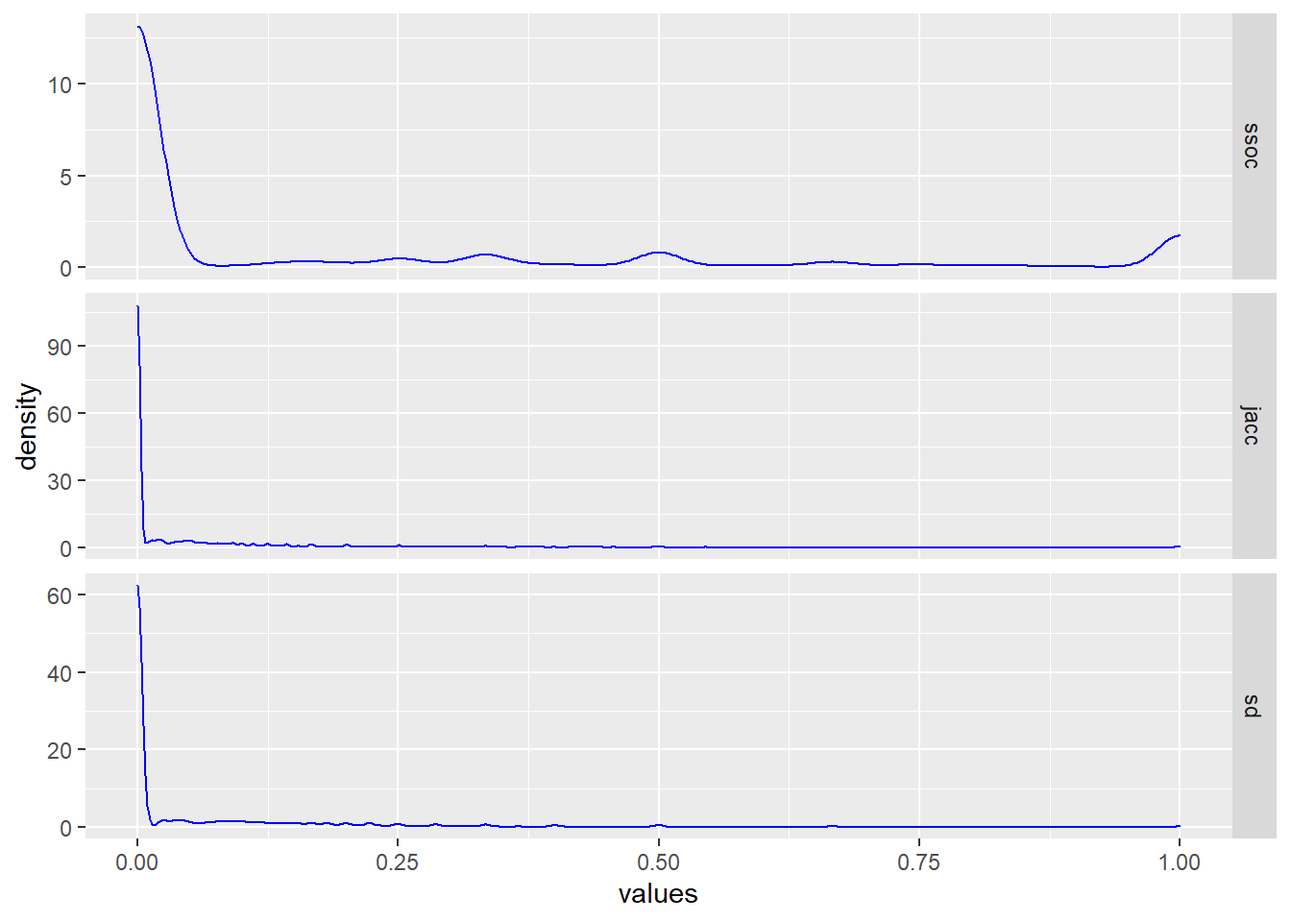
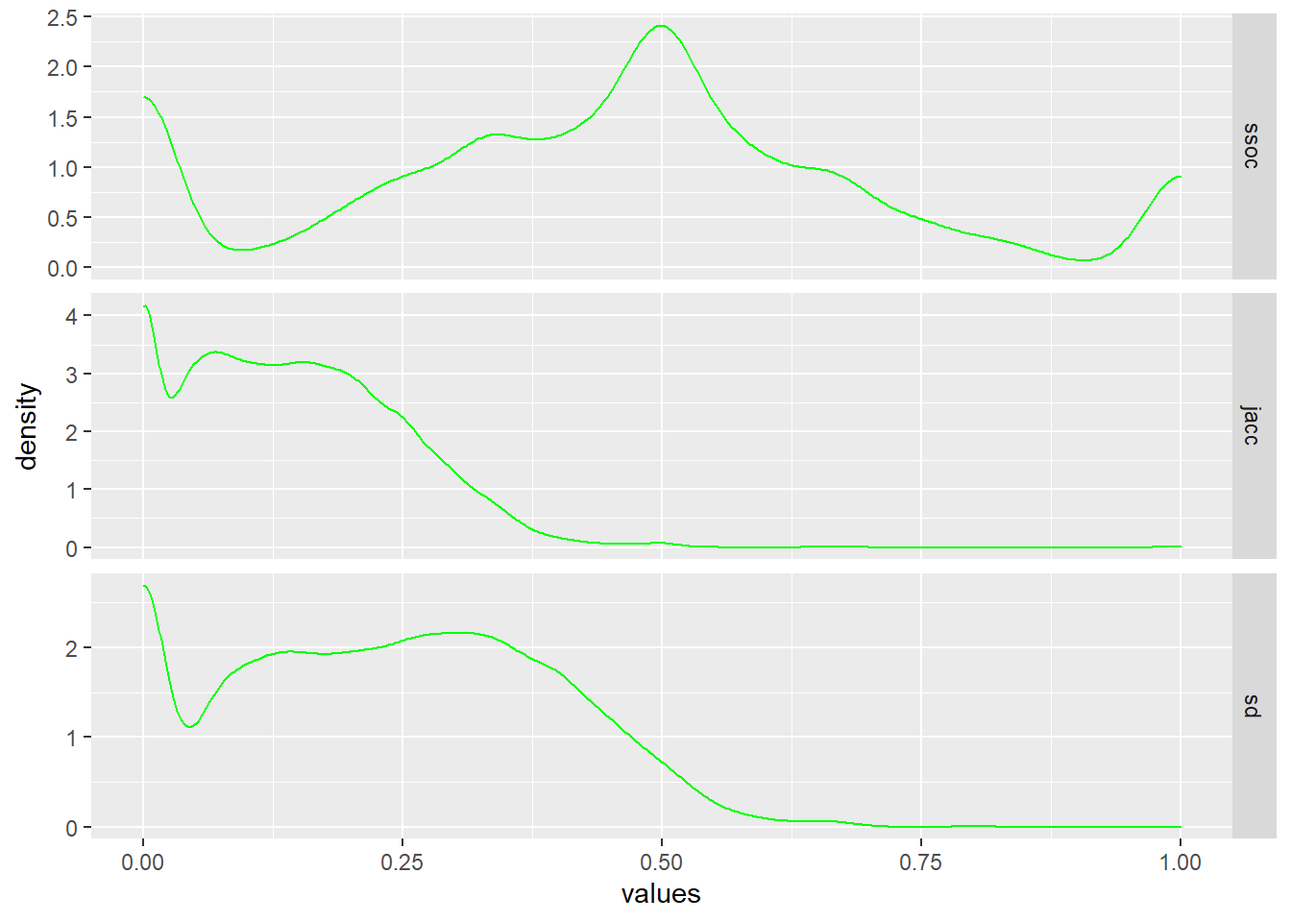
Finished comparing metrics, on to wrap up

diff --git a/docs/assemblage_network/assemblage_network_doc_2_similarity.html b/docs/assemblage_network/assemblage_network_doc_2_similarity.html
@@ -250,11 +250,11 @@ Overlap(A, B) = \frac{|A \cap B |}{\min ({|A|,|B|})}
 \]</span></p>
 <p>For example, say we have two sets: <span class="math inline">\(X=\{a, b, c\}\)</span> and <span class="math inline">\(Y = \{b, c, d, e, f\}\)</span>. Their intersection is <span class="math inline">\(X \cap Y = \{b, c\}\)</span> and the sets have cardinality <span class="math inline">\(|X|=3\)</span> and <span class="math inline">\(|Y| = 5\)</span>. Their overlap coefficient would be:</p>
 <p><span class="math display">\[
-\begin{align}
+\begin{aligned}
 Overlap(X, Y) &amp;= \frac{|\{b, c\}|}{\min(|\{a, b, c\}|, |\{b, c, d, e, f\}|)}\\
 &amp;= \frac{2}{\min (3, 5)} \\
 &amp;= \frac{2}{3} \approx 0.67
-\end{align}
+\end{aligned}
 \]</span></p>
 <p>Easy, right? It’s just the proportion of the smaller set’s members that are also members of the larger set (thus, <em>overlap</em>).</p>
 <p>Notice, though, that if <em>all</em> of the elements of the smaller set were in the larger set – i.e., if we were to drop element <span class="math inline">\(a\)</span> from set <span class="math inline">\(X\)</span> so that it was a complete <em>subset</em> of <span class="math inline">\(Y\)</span> – then the coefficient would equal <span class="math inline">\(1\)</span> regardless of how many additional members were in <span class="math inline">\(Y\)</span>.</p>
@@ -298,19 +298,19 @@ J(A, B) = \frac{|A \cap B|}{|A \cup B|} = \frac{|A \cap B|}{|A| + |B| - |A \cap 
 <p>Unlike the overlap coefficient, you can see that the Jaccard index considers the <em>total</em> membership of both sets being compared in the denominator. That means that this index will <em>always</em> penalize differences between sets, even if one is a proper subset of the other.</p>
 <p>To demonstrate, let’s go back to our toy example sets <span class="math inline">\(X=\{a, b, c\}\)</span> and <span class="math inline">\(Y = \{b, c, d, e, f\}\)</span> to calculate the Jaccard index value.</p>
 <p><span class="math display">\[
-\begin{align}
+\begin{aligned}
 J(X, Y) &amp;= \frac{|\{b, c\}|}{|\{a, b, c\}| + |\{b, c, d, e, f\}| - |\{b, c\}|}\\
 &amp;= \frac{2}{3 + 5 - 2} \\
 &amp;= \frac{2}{6} \approx 0.33
-\end{align}
+\end{aligned}
 \]</span></p>
 <p>By considering the total cardinality of the sets, the Jaccard index comes back a fair bit <em>lower</em> than the Overlap Coefficient (<span class="math inline">\(\approx 0.67\)</span>). Next, let’s go ahead and drop element <span class="math inline">\(a\)</span> to make <span class="math inline">\(X\)</span> a proper subset of <span class="math inline">\(Y\)</span> and see what happens. Whereas the Overlap Coefficient was <span class="math inline">\(1\)</span>, we find that</p>
 <p><span class="math display">\[
-\begin{align}
+\begin{aligned}
 J(X, Y) &amp;= \frac{|\{b, c\}|}{|\{b, c\}| + |\{b, c, d, e, f\}| - |\{b, c\}|}\\
 &amp;= \frac{2}{2 + 5 - 2} \\
 &amp;= \frac{2}{5} = 0.4
-\end{align}
+\end{aligned}
 \]</span></p>
 <p>That’s a significant difference! Even though <span class="math inline">\(X\)</span> is a proper subset of <span class="math inline">\(Y\)</span>, the Jaccard index emphasizes the <em>differences</em> between the sets over their commonalities. The greater the disparity between sets, the lower the index value. Again, depending on your use case, that extra penalization of difference may be to your advantage.</p>
 <p>The Jaccard similarity index is perhaps, as already mentioned, the most common and versatile of the set similarity measures. It’s often used for comparing categorical data, and frequently found in ecological or social science applications.</p>
@@ -352,19 +352,19 @@ DSC(A, B) = \frac{2 \times |A \cap B|}{|A| + |B|}
 \]</span></p>
 <p>Let’s see how Sørensen–Dice similarity compares with our toy example <span class="math inline">\(X=\{a, b, c\}\)</span> and <span class="math inline">\(Y = \{b, c, d, e, f\}\)</span> again.</p>
 <p><span class="math display">\[
-\begin{align}
+\begin{aligned}
 DSC(X, Y) &amp;= \frac{2 \times |\{b, c\}|}{|\{a, b, c\}| + |\{b, c, d, e, f\}|}\\
 &amp;= \frac{2 \times 2}{3 + 5} \\
 &amp;= \frac{4}{8} = 0.5
-\end{align}
+\end{aligned}
 \]</span></p>
 <p>As expected, our calculated similarity <span class="math inline">\(DSC = 0.5\)</span> is somewhat higher than Jaccard but lower than the Overlap Coefficient. What happens now if we make <span class="math inline">\(X\)</span> a proper subset of <span class="math inline">\(Y\)</span> again (<em>i.e.</em>, drop element <span class="math inline">\(a\)</span>)?</p>
 <p><span class="math display">\[
-\begin{align}
+\begin{aligned}
 DSC(X, Y) &amp;= \frac{2 \times |\{b, c\}|}{|\{b, c\}| + |\{b, c, d, e, f\}|}\\
 &amp;= \frac{2 \times 2}{2 + 5} \\
 &amp;= \frac{4}{7} \approx 0.57
-\end{align}
+\end{aligned}
 \]</span></p>
 <p>Like Jaccard, the Sørensen–Dice similarity coefficient does <em>not</em> equate a proper subset to identity but does calculate it as a stronger similarity than the Jaccard similarity index. The difference is that while Jaccard is the ratio of intersection to union, Sørensen–Dice is the ratio of the intersection to the <em>disjoint</em> union (<em>i.e.</em>, union minus intersection) of the two sets.</p>
 <p>Effectively, it’s the ratio of matches to mismatches rather than Jaccard’s ratio of matches to the overall membership. As before, this may be better suited depending on your particular application.</p>
@@ -447,14 +447,21 @@ Attaching package: 'gridExtra'</code></pre>
 </div>
 <p>On the left, we have the density distribution of how many artifact types tend to be found within a single provenience. On the right, we have the number of proveniences in which any single artifact type is found.</p>
 <p>One thing immediately jumps out – a substantial proportion of our proveniences contain a rather diverse collection of artifact types, but most of those individual types are found in very few proveniences. It’s also worth noting that it seems that some artifact types are showing up in a very high proportion of proveniences. Remember, our sample contains only 152 proveniences and 251 unique artifact types at our site.&nbsp;</p>
-<p>Both distributions are right-skewed, though, which is promising for our attempt to find hidden network structure. Why? Well, it means that all of those values on the right-hand tails aren’t especially likely to be particularly informative.</p>
+<p>Both distributions are right-skewed, though, which is promising for our attempt to find hidden network structure. Why? Well, it means that all of those values on the right-hand tails aren’t especially likely to be particularly informative. That skew is much more prominent in the artifact types. Provenience, on the other hand, is somewhat less skewed, which suggests less discrete spatial structure overall.</p>
 <p>An artifact type that shows up <em>everywhere</em> tells us very little about the associations between <em>other</em> artifact types, and next to nothing about the differences or similarities between proveniences. Similarly, proveniences that contain a little bit of everything don’t help us in finding spatial distinctions and are quite likely locations in which different assemblages may be mixed together.</p>
-<p>The inherent <em>structure</em> that we’re looking for isn’t likely to be found in those samples. Luckily, we now know that the <em>bulk</em> of the samples should (when projected as one-mode graphs) have a much smaller graph node <em>degree</em> than what we found in our “everything-to-everything” projections from before.&nbsp;</p>
+<p>Not to say they’re unimportant, and we can link them back in once we’ve found the primary structures for further analysis, but for now they are uninformative. The inherent <em>structure</em> that we’re looking for isn’t likely to be found in those samples. Luckily, we now know that the <em>bulk</em> of the samples should (when projected as one-mode graphs) have a much smaller graph node <em>degree</em> than what we found in our “everything-to-everything” projections from before.&nbsp;</p>
 </section>
 <section id="comparing-similarity-measures" class="level2">
 <h2 class="anchored" data-anchor-id="comparing-similarity-measures">Comparing Similarity Measures</h2>
-<section id="comparing-similarities-for-proveniences" class="level3">
-<h3 class="anchored" data-anchor-id="comparing-similarities-for-proveniences">Comparing similarities for proveniences</h3>
+<p>With our sample distributions in mind, we can turn to reasoning through a choice of similarity measures. From our three methods discussed above, the things we want to consider are:</p>
+<ul>
+<li><p>How likely and important are proper subsets to our objectives?</p></li>
+<li><p>How strongly do we want to weight the intersections of sets?</p></li>
+<li><p>How strongly do we want to penalize the differences?</p></li>
+</ul>
+<p>We also, of course, do want to consider just what our selected measures look like with our data sample and what implications that has for its graph structure. We’ll orient our incidence matrix <code>g_assemblages_bpg_inc</code> to capture the appropriate dimension (provenience or artifact type), and pass it to our similarity functions.</p>
+<p>Each of these represents a potential weighted adjacency matrix for our one-mode graph projections. For comparison purposes, we’ll pull out the lower triangle of each of these square matrices (excluding the self-to-self diagonal, which will be all ones).</p>
+<p>First, let’s take a look at our three similarity measures for the provenience dimension.</p>
 <div class="cell">
 <div class="sourceCode cell-code" id="cb13"><pre class="sourceCode r code-with-copy"><code class="sourceCode r"><span id="cb13-1"><a href="#cb13-1" aria-hidden="true" tabindex="-1"></a><span class="co"># Overlap coefficient, provenience</span></span>
 <span id="cb13-2"><a href="#cb13-2" aria-hidden="true" tabindex="-1"></a>prov_adj_ssoc <span class="ot">&lt;-</span> <span class="fu">overlap_coef_bin</span>(<span class="fu">t</span>(g_assemblages_bpg_inc))</span>
@@ -473,65 +480,84 @@ Attaching package: 'gridExtra'</code></pre>
 <span id="cb13-15"><a href="#cb13-15" aria-hidden="true" tabindex="-1"></a></span>
 <span id="cb13-16"><a href="#cb13-16" aria-hidden="true" tabindex="-1"></a>prov_sd_vals <span class="ot">&lt;-</span></span>
 <span id="cb13-17"><a href="#cb13-17" aria-hidden="true" tabindex="-1"></a>  prov_adj_sd[<span class="fu">lower.tri</span>(prov_adj_sd, <span class="at">diag =</span> <span class="cn">FALSE</span>)]</span>
-<span id="cb13-18"><a href="#cb13-18" aria-hidden="true" tabindex="-1"></a>  </span>
+<span id="cb13-18"><a href="#cb13-18" aria-hidden="true" tabindex="-1"></a></span>
 <span id="cb13-19"><a href="#cb13-19" aria-hidden="true" tabindex="-1"></a><span class="co"># Make data frame to compare</span></span>
 <span id="cb13-20"><a href="#cb13-20" aria-hidden="true" tabindex="-1"></a>prov_sims <span class="ot">&lt;-</span></span>
-<span id="cb13-21"><a href="#cb13-21" aria-hidden="true" tabindex="-1"></a>  <span class="fu">data.frame</span>(<span class="at">ssoc =</span> prov_ssoc_vals, </span>
-<span id="cb13-22"><a href="#cb13-22" aria-hidden="true" tabindex="-1"></a>             <span class="at">jacc =</span> prov_jacc_vals, </span>
-<span id="cb13-23"><a href="#cb13-23" aria-hidden="true" tabindex="-1"></a>             <span class="at">sd =</span> prov_sd_vals)</span>
-<span id="cb13-24"><a href="#cb13-24" aria-hidden="true" tabindex="-1"></a>             </span>
-<span id="cb13-25"><a href="#cb13-25" aria-hidden="true" tabindex="-1"></a><span class="co"># Plot densities by similarity measure</span></span>
-<span id="cb13-26"><a href="#cb13-26" aria-hidden="true" tabindex="-1"></a>prov_sims <span class="sc">%&gt;%</span> <span class="fu">stack</span>() <span class="sc">%&gt;%</span></span>
-<span id="cb13-27"><a href="#cb13-27" aria-hidden="true" tabindex="-1"></a>  <span class="fu">ggplot</span>(<span class="fu">aes</span>(<span class="at">x =</span> values)) <span class="sc">+</span></span>
-<span id="cb13-28"><a href="#cb13-28" aria-hidden="true" tabindex="-1"></a>  <span class="fu">geom_density</span>(<span class="at">color =</span> <span class="st">"green"</span>,</span>
-<span id="cb13-29"><a href="#cb13-29" aria-hidden="true" tabindex="-1"></a>               <span class="at">alpha =</span> <span class="fl">0.4</span>) <span class="sc">+</span></span>
-<span id="cb13-30"><a href="#cb13-30" aria-hidden="true" tabindex="-1"></a>  <span class="fu">facet_grid</span>(ind <span class="sc">~</span> ., <span class="at">scales =</span> <span class="st">"free"</span>)    </span></code><button title="Copy to Clipboard" class="code-copy-button"><i class="bi"></i></button></pre></div>
-<div class="cell-output-display">
-<p><img src="assemblage_network_doc_2_similarity_files/figure-html/unnamed-chunk-8-1.png" class="img-fluid" width="672"></p>
+<span id="cb13-21"><a href="#cb13-21" aria-hidden="true" tabindex="-1"></a>  <span class="fu">data.frame</span>(<span class="at">ssoc =</span> prov_ssoc_vals,</span>
+<span id="cb13-22"><a href="#cb13-22" aria-hidden="true" tabindex="-1"></a>             <span class="at">jacc =</span> prov_jacc_vals,</span>
+<span id="cb13-23"><a href="#cb13-23" aria-hidden="true" tabindex="-1"></a>             <span class="at">sd =</span> prov_sd_vals)</span></code><button title="Copy to Clipboard" class="code-copy-button"><i class="bi"></i></button></pre></div>
 </div>
-</div>
-</section>
-<section id="comparing-similarities-for-artifact-types" class="level3">
-<h3 class="anchored" data-anchor-id="comparing-similarities-for-artifact-types">Comparing similarities for artifact types</h3>
+<p>Now, we’ll stack our lists of values into a data frame and plot the density profiles of the resulting similarity values for each method.</p>
 <div class="cell">
-<div class="sourceCode cell-code" id="cb14"><pre class="sourceCode r code-with-copy"><code class="sourceCode r"><span id="cb14-1"><a href="#cb14-1" aria-hidden="true" tabindex="-1"></a><span class="co"># Overlap coefficient, artifact types</span></span>
-<span id="cb14-2"><a href="#cb14-2" aria-hidden="true" tabindex="-1"></a>artifact_adj_ssoc <span class="ot">&lt;-</span> <span class="fu">overlap_coef_bin</span>(g_assemblages_bpg_inc)</span>
-<span id="cb14-3"><a href="#cb14-3" aria-hidden="true" tabindex="-1"></a></span>
-<span id="cb14-4"><a href="#cb14-4" aria-hidden="true" tabindex="-1"></a>artifact_ssoc_vals <span class="ot">&lt;-</span></span>
-<span id="cb14-5"><a href="#cb14-5" aria-hidden="true" tabindex="-1"></a>  artifact_adj_ssoc[<span class="fu">lower.tri</span>(artifact_adj_ssoc, <span class="at">diag =</span> <span class="cn">FALSE</span>)]</span>
-<span id="cb14-6"><a href="#cb14-6" aria-hidden="true" tabindex="-1"></a></span>
-<span id="cb14-7"><a href="#cb14-7" aria-hidden="true" tabindex="-1"></a><span class="co"># Jaccard, artifact types</span></span>
-<span id="cb14-8"><a href="#cb14-8" aria-hidden="true" tabindex="-1"></a>artifact_adj_jacc <span class="ot">&lt;-</span> <span class="fu">jaccard_sim_bin</span>(g_assemblages_bpg_inc)</span>
-<span id="cb14-9"><a href="#cb14-9" aria-hidden="true" tabindex="-1"></a></span>
-<span id="cb14-10"><a href="#cb14-10" aria-hidden="true" tabindex="-1"></a>artifact_jacc_vals <span class="ot">&lt;-</span></span>
-<span id="cb14-11"><a href="#cb14-11" aria-hidden="true" tabindex="-1"></a>  artifact_adj_jacc[<span class="fu">lower.tri</span>(artifact_adj_jacc, <span class="at">diag =</span> <span class="cn">FALSE</span>)]</span>
-<span id="cb14-12"><a href="#cb14-12" aria-hidden="true" tabindex="-1"></a></span>
-<span id="cb14-13"><a href="#cb14-13" aria-hidden="true" tabindex="-1"></a><span class="co">#Sorenson-Dice, artifact types</span></span>
-<span id="cb14-14"><a href="#cb14-14" aria-hidden="true" tabindex="-1"></a>artifact_adj_sd <span class="ot">&lt;-</span> <span class="fu">soren_dice_sim_bin</span>(g_assemblages_bpg_inc)</span>
-<span id="cb14-15"><a href="#cb14-15" aria-hidden="true" tabindex="-1"></a></span>
-<span id="cb14-16"><a href="#cb14-16" aria-hidden="true" tabindex="-1"></a>artifact_sd_vals <span class="ot">&lt;-</span></span>
-<span id="cb14-17"><a href="#cb14-17" aria-hidden="true" tabindex="-1"></a>  artifact_adj_sd[<span class="fu">lower.tri</span>(artifact_adj_sd, <span class="at">diag =</span> <span class="cn">FALSE</span>)]</span>
-<span id="cb14-18"><a href="#cb14-18" aria-hidden="true" tabindex="-1"></a></span>
-<span id="cb14-19"><a href="#cb14-19" aria-hidden="true" tabindex="-1"></a><span class="co"># Make data frame to compare</span></span>
-<span id="cb14-20"><a href="#cb14-20" aria-hidden="true" tabindex="-1"></a>artifact_sims <span class="ot">&lt;-</span></span>
-<span id="cb14-21"><a href="#cb14-21" aria-hidden="true" tabindex="-1"></a>  <span class="fu">data.frame</span>(<span class="at">ssoc =</span> artifact_ssoc_vals, </span>
-<span id="cb14-22"><a href="#cb14-22" aria-hidden="true" tabindex="-1"></a>             <span class="at">jacc =</span> artifact_jacc_vals, </span>
-<span id="cb14-23"><a href="#cb14-23" aria-hidden="true" tabindex="-1"></a>             <span class="at">sd =</span> artifact_sd_vals)</span>
-<span id="cb14-24"><a href="#cb14-24" aria-hidden="true" tabindex="-1"></a></span>
-<span id="cb14-25"><a href="#cb14-25" aria-hidden="true" tabindex="-1"></a><span class="co"># Plot densities by similarity measure</span></span>
-<span id="cb14-26"><a href="#cb14-26" aria-hidden="true" tabindex="-1"></a>artifact_sims <span class="sc">%&gt;%</span> <span class="fu">stack</span>() <span class="sc">%&gt;%</span> </span>
-<span id="cb14-27"><a href="#cb14-27" aria-hidden="true" tabindex="-1"></a>  <span class="fu">ggplot</span>(<span class="fu">aes</span>(<span class="at">x =</span> values)) <span class="sc">+</span></span>
-<span id="cb14-28"><a href="#cb14-28" aria-hidden="true" tabindex="-1"></a>  <span class="fu">geom_density</span>(<span class="at">color =</span> <span class="st">"blue"</span>,</span>
-<span id="cb14-29"><a href="#cb14-29" aria-hidden="true" tabindex="-1"></a>               <span class="at">alpha =</span> <span class="fl">0.4</span>) <span class="sc">+</span> </span>
-<span id="cb14-30"><a href="#cb14-30" aria-hidden="true" tabindex="-1"></a>  <span class="fu">facet_grid</span>(ind <span class="sc">~</span> ., <span class="at">scales =</span> <span class="st">"free"</span>)</span></code><button title="Copy to Clipboard" class="code-copy-button"><i class="bi"></i></button></pre></div>
+<div class="sourceCode cell-code" id="cb14"><pre class="sourceCode r code-with-copy"><code class="sourceCode r"><span id="cb14-1"><a href="#cb14-1" aria-hidden="true" tabindex="-1"></a><span class="co"># Plot densities by similarity measure</span></span>
+<span id="cb14-2"><a href="#cb14-2" aria-hidden="true" tabindex="-1"></a>prov_sims <span class="sc">%&gt;%</span> <span class="fu">stack</span>() <span class="sc">%&gt;%</span></span>
+<span id="cb14-3"><a href="#cb14-3" aria-hidden="true" tabindex="-1"></a>  <span class="fu">ggplot</span>(<span class="fu">aes</span>(<span class="at">x =</span> values)) <span class="sc">+</span></span>
+<span id="cb14-4"><a href="#cb14-4" aria-hidden="true" tabindex="-1"></a>  <span class="fu">geom_density</span>(<span class="at">color =</span> <span class="st">"green"</span>,</span>
+<span id="cb14-5"><a href="#cb14-5" aria-hidden="true" tabindex="-1"></a>               <span class="at">alpha =</span> <span class="fl">0.4</span>) <span class="sc">+</span></span>
+<span id="cb14-6"><a href="#cb14-6" aria-hidden="true" tabindex="-1"></a>  <span class="fu">facet_grid</span>(ind <span class="sc">~</span> ., <span class="at">scales =</span> <span class="st">"free"</span>)</span></code><button title="Copy to Clipboard" class="code-copy-button"><i class="bi"></i></button></pre></div>
 <div class="cell-output-display">
 <p><img src="assemblage_network_doc_2_similarity_files/figure-html/unnamed-chunk-9-1.png" class="img-fluid" width="672"></p>
 </div>
 </div>
-</section>
-<section id="section" class="level3">
-<h3 class="anchored" data-anchor-id="section"></h3>
-</section>
+<p>It’s easy to see how the different similarity measures follow the intuitions about sets that we discussed earlier.</p>
+<p>The overlap coefficient (<code>ssoc</code> top row) is almost <em>looking</em> for subsets, so nearly half of the proveniences are calculated as being 50% (or better) matches. That means that, by set overlap at least, a large proportion of our location samples would be considered more similar than not.</p>
+<p>Conversely, the Jaccard similarity index (<code>jacc</code> middle row) computes the majority of those same proveniences as <em>dissimilar</em>. Unlike the overlap coefficient, Jaccard is prioritizing <em>difference</em> over intersection since the union of two sets will <em>always</em> be larger than their intersection unless the sets are identical.</p>
+<p>Similarly, the Sørensen–Dice similarity index (<code>sd</code> bottom row) is seen to be weighting the differences betwen our samples more heavily – but <em>only</em> the differences, and not the full cardinality of the joined sets. The density curve is quite similar to Jaccard, but you can see that it’s emphasis on the intersection of sets pushes the similarity values higher towards the 50% mark.</p>
+<p>Notice, though, how our provenience data distribution can be seen reflected in the similarity metric profiles. Even though the counts of artifact types per provenience are somewhat right-skewed, a majority of proveniences demonstrate relatively high-cardinality sets. That leads to the curiously multi-modal distribution to our similarity metrics. We’ll come back to that in a bit.</p>
+<p>Next, let’s take a look at the projections of similarity along the artifact types.</p>
+<div class="cell">
+<div class="sourceCode cell-code" id="cb15"><pre class="sourceCode r code-with-copy"><code class="sourceCode r"><span id="cb15-1"><a href="#cb15-1" aria-hidden="true" tabindex="-1"></a><span class="co"># Overlap coefficient, artifact types</span></span>
+<span id="cb15-2"><a href="#cb15-2" aria-hidden="true" tabindex="-1"></a>artifact_adj_ssoc <span class="ot">&lt;-</span> <span class="fu">overlap_coef_bin</span>(g_assemblages_bpg_inc)</span>
+<span id="cb15-3"><a href="#cb15-3" aria-hidden="true" tabindex="-1"></a></span>
+<span id="cb15-4"><a href="#cb15-4" aria-hidden="true" tabindex="-1"></a>artifact_ssoc_vals <span class="ot">&lt;-</span></span>
+<span id="cb15-5"><a href="#cb15-5" aria-hidden="true" tabindex="-1"></a>  artifact_adj_ssoc[<span class="fu">lower.tri</span>(artifact_adj_ssoc, <span class="at">diag =</span> <span class="cn">FALSE</span>)]</span>
+<span id="cb15-6"><a href="#cb15-6" aria-hidden="true" tabindex="-1"></a></span>
+<span id="cb15-7"><a href="#cb15-7" aria-hidden="true" tabindex="-1"></a><span class="co"># Jaccard, artifact types</span></span>
+<span id="cb15-8"><a href="#cb15-8" aria-hidden="true" tabindex="-1"></a>artifact_adj_jacc <span class="ot">&lt;-</span> <span class="fu">jaccard_sim_bin</span>(g_assemblages_bpg_inc)</span>
+<span id="cb15-9"><a href="#cb15-9" aria-hidden="true" tabindex="-1"></a></span>
+<span id="cb15-10"><a href="#cb15-10" aria-hidden="true" tabindex="-1"></a>artifact_jacc_vals <span class="ot">&lt;-</span></span>
+<span id="cb15-11"><a href="#cb15-11" aria-hidden="true" tabindex="-1"></a>  artifact_adj_jacc[<span class="fu">lower.tri</span>(artifact_adj_jacc, <span class="at">diag =</span> <span class="cn">FALSE</span>)]</span>
+<span id="cb15-12"><a href="#cb15-12" aria-hidden="true" tabindex="-1"></a></span>
+<span id="cb15-13"><a href="#cb15-13" aria-hidden="true" tabindex="-1"></a><span class="co">#Sorenson-Dice, artifact types</span></span>
+<span id="cb15-14"><a href="#cb15-14" aria-hidden="true" tabindex="-1"></a>artifact_adj_sd <span class="ot">&lt;-</span> <span class="fu">soren_dice_sim_bin</span>(g_assemblages_bpg_inc)</span>
+<span id="cb15-15"><a href="#cb15-15" aria-hidden="true" tabindex="-1"></a></span>
+<span id="cb15-16"><a href="#cb15-16" aria-hidden="true" tabindex="-1"></a>artifact_sd_vals <span class="ot">&lt;-</span></span>
+<span id="cb15-17"><a href="#cb15-17" aria-hidden="true" tabindex="-1"></a>  artifact_adj_sd[<span class="fu">lower.tri</span>(artifact_adj_sd, <span class="at">diag =</span> <span class="cn">FALSE</span>)]</span>
+<span id="cb15-18"><a href="#cb15-18" aria-hidden="true" tabindex="-1"></a></span>
+<span id="cb15-19"><a href="#cb15-19" aria-hidden="true" tabindex="-1"></a><span class="co"># Make data frame to compare</span></span>
+<span id="cb15-20"><a href="#cb15-20" aria-hidden="true" tabindex="-1"></a>artifact_sims <span class="ot">&lt;-</span></span>
+<span id="cb15-21"><a href="#cb15-21" aria-hidden="true" tabindex="-1"></a>  <span class="fu">data.frame</span>(<span class="at">ssoc =</span> artifact_ssoc_vals, </span>
+<span id="cb15-22"><a href="#cb15-22" aria-hidden="true" tabindex="-1"></a>             <span class="at">jacc =</span> artifact_jacc_vals, </span>
+<span id="cb15-23"><a href="#cb15-23" aria-hidden="true" tabindex="-1"></a>             <span class="at">sd =</span> artifact_sd_vals)</span></code><button title="Copy to Clipboard" class="code-copy-button"><i class="bi"></i></button></pre></div>
+</div>
+<p>Again, we’ll stack the similarity values so we can look at their distributions.</p>
+<div class="cell">
+<div class="sourceCode cell-code" id="cb16"><pre class="sourceCode r code-with-copy"><code class="sourceCode r"><span id="cb16-1"><a href="#cb16-1" aria-hidden="true" tabindex="-1"></a><span class="co"># Plot densities by similarity measure</span></span>
+<span id="cb16-2"><a href="#cb16-2" aria-hidden="true" tabindex="-1"></a>artifact_sims <span class="sc">%&gt;%</span> <span class="fu">stack</span>() <span class="sc">%&gt;%</span> </span>
+<span id="cb16-3"><a href="#cb16-3" aria-hidden="true" tabindex="-1"></a>  <span class="fu">ggplot</span>(<span class="fu">aes</span>(<span class="at">x =</span> values)) <span class="sc">+</span></span>
+<span id="cb16-4"><a href="#cb16-4" aria-hidden="true" tabindex="-1"></a>  <span class="fu">geom_density</span>(<span class="at">color =</span> <span class="st">"blue"</span>,</span>
+<span id="cb16-5"><a href="#cb16-5" aria-hidden="true" tabindex="-1"></a>               <span class="at">alpha =</span> <span class="fl">0.4</span>) <span class="sc">+</span> </span>
+<span id="cb16-6"><a href="#cb16-6" aria-hidden="true" tabindex="-1"></a>  <span class="fu">facet_grid</span>(ind <span class="sc">~</span> ., <span class="at">scales =</span> <span class="st">"free"</span>)</span></code><button title="Copy to Clipboard" class="code-copy-button"><i class="bi"></i></button></pre></div>
+<div class="cell-output-display">
+<p><img src="assemblage_network_doc_2_similarity_files/figure-html/unnamed-chunk-11-1.png" class="img-fluid" width="672"></p>
+</div>
+</div>
+<p>These look very different than the density profiles of provenience similarity, but also notice that now there seems to be considerable <em>less</em> difference between similarity measures. Why is that?</p>
+<p>Well, because the distribution of the number of proveniences in which each artifact type appears is <em>much</em> more right-skewed and heavy-tailed. In other words, we’re comparing much <em>smaller</em> sets on average. That makes intersections smaller and less likely to begin with. It also, however, makes any correspondence between sets much more meaningful.</p>
+<p>If you look closely, you’ll notice that the differences between our three similarity measure are still visible within that heavy right tail. If we exclude the zero values, we can see that more clearly.</p>
+<div class="cell">
+<div class="sourceCode cell-code" id="cb17"><pre class="sourceCode r code-with-copy"><code class="sourceCode r"><span id="cb17-1"><a href="#cb17-1" aria-hidden="true" tabindex="-1"></a><span class="co"># Plot densities by similarity measure</span></span>
+<span id="cb17-2"><a href="#cb17-2" aria-hidden="true" tabindex="-1"></a>artifact_sims <span class="sc">%&gt;%</span> <span class="fu">stack</span>() <span class="sc">%&gt;%</span> </span>
+<span id="cb17-3"><a href="#cb17-3" aria-hidden="true" tabindex="-1"></a>  <span class="fu">filter</span>(values <span class="sc">&gt;</span> <span class="dv">0</span>) <span class="sc">%&gt;%</span> <span class="co"># Exclude zeroes</span></span>
+<span id="cb17-4"><a href="#cb17-4" aria-hidden="true" tabindex="-1"></a>  <span class="fu">ggplot</span>(<span class="fu">aes</span>(<span class="at">x =</span> values)) <span class="sc">+</span></span>
+<span id="cb17-5"><a href="#cb17-5" aria-hidden="true" tabindex="-1"></a>  <span class="fu">geom_density</span>(<span class="at">color =</span> <span class="st">"blue"</span>,</span>
+<span id="cb17-6"><a href="#cb17-6" aria-hidden="true" tabindex="-1"></a>               <span class="at">alpha =</span> <span class="fl">0.4</span>) <span class="sc">+</span> </span>
+<span id="cb17-7"><a href="#cb17-7" aria-hidden="true" tabindex="-1"></a>  <span class="fu">facet_grid</span>(ind <span class="sc">~</span> ., <span class="at">scales =</span> <span class="st">"free"</span>)</span></code><button title="Copy to Clipboard" class="code-copy-button"><i class="bi"></i></button></pre></div>
+<div class="cell-output-display">
+<p><img src="assemblage_network_doc_2_similarity_files/figure-html/unnamed-chunk-12-1.png" class="img-fluid" width="672"></p>
+</div>
+</div>
+<p>When we take that “spike” of zero values away from our density distribution, you can see the same patterns of weighting between the three methods – i.e., overlap looking for subsets, Jaccard for differences, and Sørensen–Dice for proportions between them. Interestingly, all three are also identifying that we do have at least some artifact types with identical patterns of occurrence.</p>
 </section>
 </section>
 
